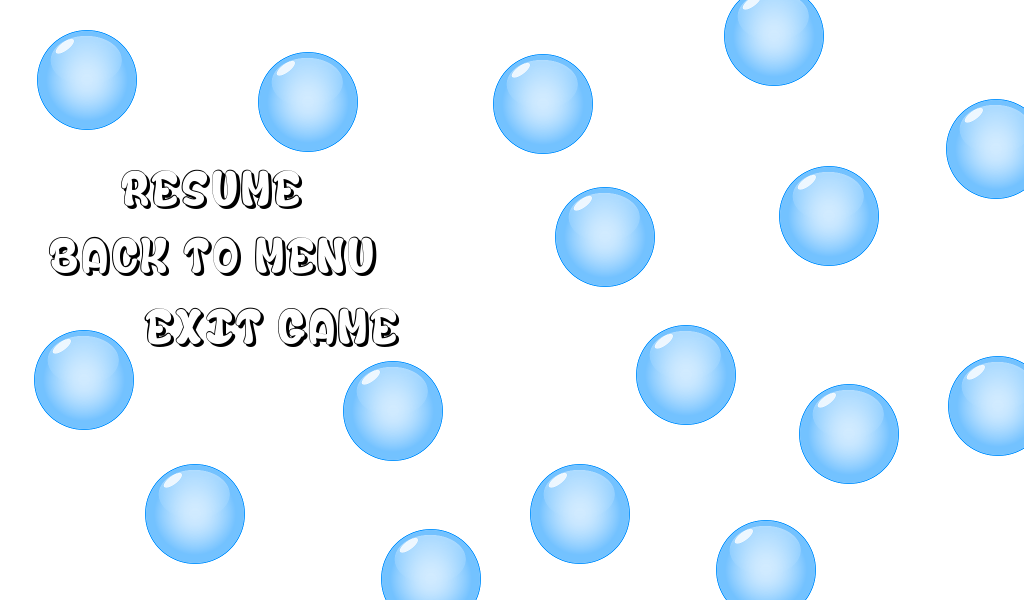
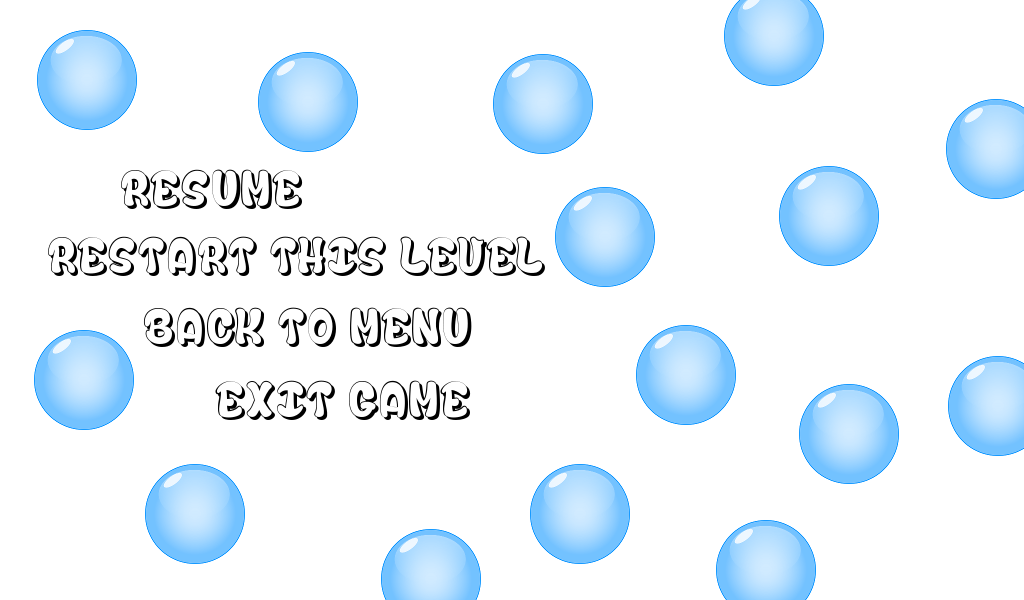
Ajout de la fonctionnalité "restart this level" dans le menu de pause

Changed region(s): [[0.125, 0.51, 0.4688, 0.78], [0.0312, 0.39, 0.5312, 0.48]]

diff --git a/Winds/src/controls/MouseInput.java b/Winds/src/controls/MouseInput.java
@@ -37,10 +37,13 @@ public class MouseInput extends MouseAdapter{
 		if(Game.getPause()){
 			if(key == InputEvent.BUTTON1_MASK){
 				if(mouseX >= 122 && mouseX <= 302 && mouseY >= 169 && mouseY <= 209) Game.setPause();
-				if(mouseX >= 47 && mouseX <= 377 && mouseY >= 235 && mouseY <= 275)  
+				if(mouseX >= 47 && mouseX <= 542 && mouseY >= 235 && mouseY <= 275)  
+					if(JOptionPane.showConfirmDialog(null, "Restart this level ?") == JOptionPane.YES_OPTION)
+						Game.restartLevel();
+				if(mouseX >= 145 && mouseX <= 470 && mouseY >= 307 && mouseY <= 347) 
 					if(JOptionPane.showConfirmDialog(null, "Are you sure you want to go back to menu ?") == JOptionPane.YES_OPTION)
 						Game.goBackToMenu();
-				if(mouseX >= 148 && mouseX <= 398 && mouseY >= 307 && mouseY <= 347) 
+				if(mouseX >= 215 && mouseX <= 470 && mouseY >= 380 && mouseY <= 420)
 					if(JOptionPane.showConfirmDialog(null, "Are you sure you want to quit the game ?") == JOptionPane.YES_OPTION)
 						System.exit(0);
 			}

diff --git a/Winds/src/display/Game.java b/Winds/src/display/Game.java
@@ -216,8 +216,9 @@ public class Game extends Canvas implements Runnable{
 			g.drawImage(pauseImage, 0, 0, this);
 			if(Window.debug){
 				g.drawRect(122,169,180,40);
-				g.drawRect(47,235,330,40);
-				g.drawRect(148,307,250,40);
+				g.drawRect(47,235,495,40);
+				g.drawRect(145,307,325,40);
+				g.drawRect(215, 380, 255, 40);
 			}
 		}else{
 			
@@ -366,6 +367,14 @@ public class Game extends Canvas implements Runnable{
 		Game.bgMusic.stop();
 		Game.running = false;
 		Window.affect(new LevelSelector(typeLvl, numPageFrom), Window.DIM_STANDARD);
+	}
+	/**
+	 * restarts the current level from the start
+	 */
+	public static void restartLevel(){
+		Game.bgMusic.stop();
+		Game.running = false;
+		Window.affect(new Game(typeLvl, numPageFrom), Profile.current.getScreenDimensions());
 	}
 	
 	/**
